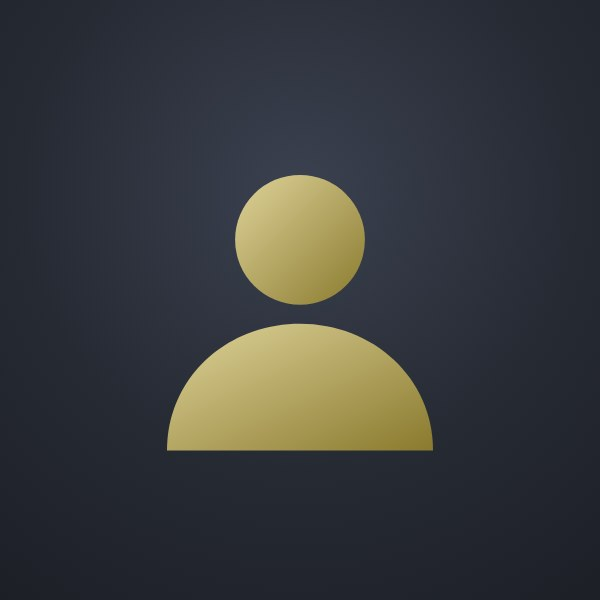
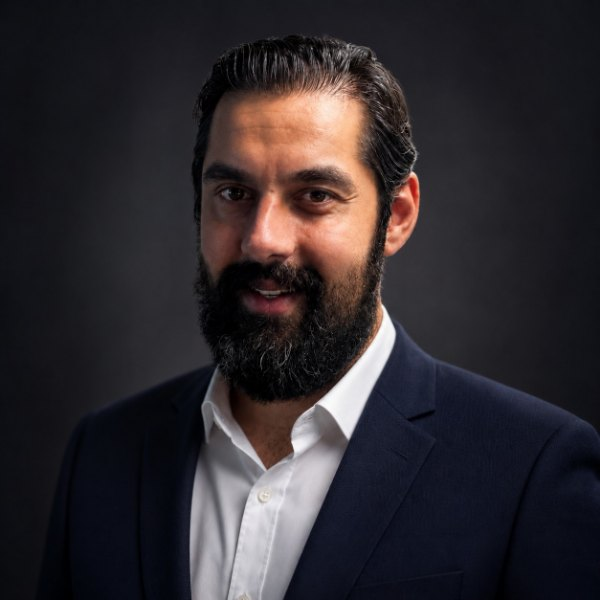
Use Ahmad's real photo and fix alternating marker/number alignment
- Hero now uses the real headshot (public/ahmad-qattan.jpg), downscaled to
  600x600 (~35KB) for a properly-sized, fast-loading asset.
- Fix vertical misalignment of the alternating (column-3 / mobile column-1)
  markers: CSS Grid auto-placement was pushing the marker to a 2nd row because
  the card (DOM-first) occupied a later column, so numbers ٠٢/٠٤/٠٦/٠٨ sat below
  their cards. Pin both card and marker to grid-row 1 — every number now lines
  up with its card and connector.

Verified: card↔marker vertical delta is 0 for all numbered stops (desktop +
mobile); overlap/overflow still zero; road still finishes on the last marker;
portal still plays; no console errors.

Claude-Session: https://claude.ai/code/session_01N8UEYKMAjjKYp5uwcSCcEH

diff --git a/app/globals.css b/app/globals.css
@@ -525,7 +525,11 @@ p {
 .stop--end .stop__card { grid-column: 3; }
 .stop__card,
 .stop .marker { min-width: 0; }
-.stop .marker { grid-column: 2; justify-self: center; align-self: center; }
+/* Pin both to row 1 so grid auto-placement can't push the marker to a 2nd row
+   on the alternating (column-3 / mobile column-1) side — which would offset the
+   number from its card vertically. */
+.stop__card { grid-row: 1; }
+.stop .marker { grid-column: 2; grid-row: 1; justify-self: center; align-self: center; }
 
 /* Connector: a short line from the card's near edge toward the channel. */
 .stop__card {
